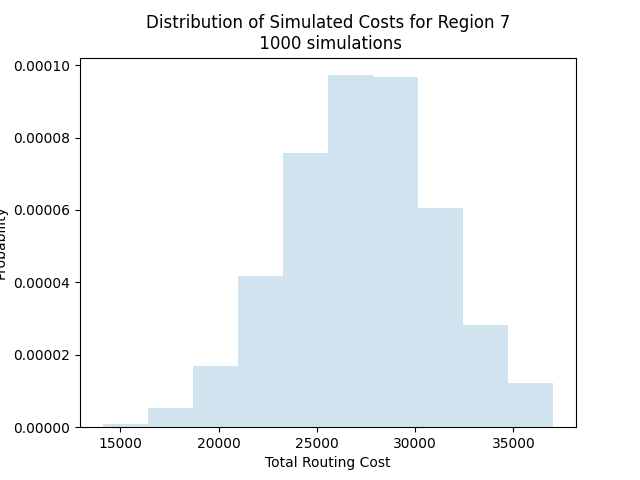
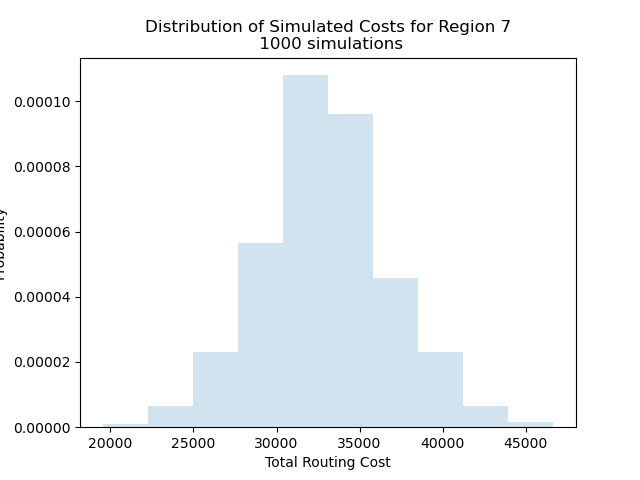
Removed dividing by 4 for average demand

diff --git a/simulation.py b/simulation.py
@@ -101,7 +101,7 @@ def cost_routes(routes, weekday):
         b = travel_dur * 1.6 - travel_dur * 1.3
 
         # Generate random values from truncated norm distribution 
-        traffic_adj = stats.truncnorm.rvs(a, b, travel_dur * 1.3, 1) / 4
+        traffic_adj = stats.truncnorm.rvs(a, b, travel_dur * 1.3, 1)
 
         # Remove average unloading time for one store
         traffic_adj -= avg_unloading
@@ -128,7 +128,7 @@ def cost_routes(routes, weekday):
         b = DC_travel_dur * 1.6 - DC_travel_dur * 1.3
 
         # Generate random values from truncated norm distribution
-        traffic_adj = stats.truncnorm.rvs(a, b, DC_travel_dur * 1.3, 1) / 4
+        traffic_adj = stats.truncnorm.rvs(a, b, DC_travel_dur * 1.3, 1)
 
         # Add traffic adjustment to travel duration
         DC_travel_dur += traffic_adj 
@@ -201,7 +201,7 @@ def cost_routes(routes, weekday):
 # Run simulation
 
 # Set to True for a weekday, False for a weekend
-time_period = False
+time_period = True
 
 # Get routes 
 routes = get_routes(time_period)
@@ -214,6 +214,7 @@ if time_period == True:
     reg4 = routes[10:13]
     reg5 = routes[13:17]
     reg6 = routes[17:21]
+    reg7 = routes[0:21]
 else: 
     reg1 = routes[0:3]
     reg2 = routes[3:5]
@@ -221,7 +222,7 @@ else:
     reg4 = routes[8:10]
     reg5 = routes[10:13]
     reg6 = routes[13:16]
-
+    reg7 = routes[0:14]
 
 # Get total cost for optimised routing schedule from Part 1
 if time_period == True: 
@@ -250,8 +251,8 @@ for i in range(1,8):
     elif i == 6:
         routes = reg6
     elif i == 7:
-        routes = routes
-
+        routes = reg7
+    
     for j in range(len(observed_costs)):
         # Cost routes
         route_costs, DailyFreight = cost_routes(routes, time_period)

diff --git a/simulation_closure.py b/simulation_closure.py
@@ -101,7 +101,7 @@ def cost_routes(routes, weekday):
         b = travel_dur * 1.6 - travel_dur * 1.3
 
         # Generate random values from truncated norm distribution 
-        traffic_adj = stats.truncnorm.rvs(a, b, travel_dur * 1.3, 1) / 4
+        traffic_adj = stats.truncnorm.rvs(a, b, travel_dur * 1.3, 1)
 
         # Remove average unloading time for one store
         traffic_adj -= avg_unloading
@@ -128,7 +128,7 @@ def cost_routes(routes, weekday):
         b = DC_travel_dur * 1.6 - DC_travel_dur * 1.3
 
         # Generate random values from truncated norm distribution
-        traffic_adj = stats.truncnorm.rvs(a, b, DC_travel_dur * 1.3, 1) / 4
+        traffic_adj = stats.truncnorm.rvs(a, b, DC_travel_dur * 1.3, 1)
 
         # Add traffic adjustment to travel duration
         DC_travel_dur += traffic_adj 
@@ -201,7 +201,7 @@ def cost_routes(routes, weekday):
 # Run simulation
 
 # Set to True for a weekday, False for a weekend
-time_period = True
+time_period = False
 
 # Get routes 
 routes = get_routes(time_period)
@@ -223,7 +223,6 @@ else:
     reg5 = routes[10:12]
     reg6 = routes[12:14]
     reg7 = routes[0:14]
-
 
 # Get total cost for optimised routing schedule from Part 1
 if time_period == True: 
